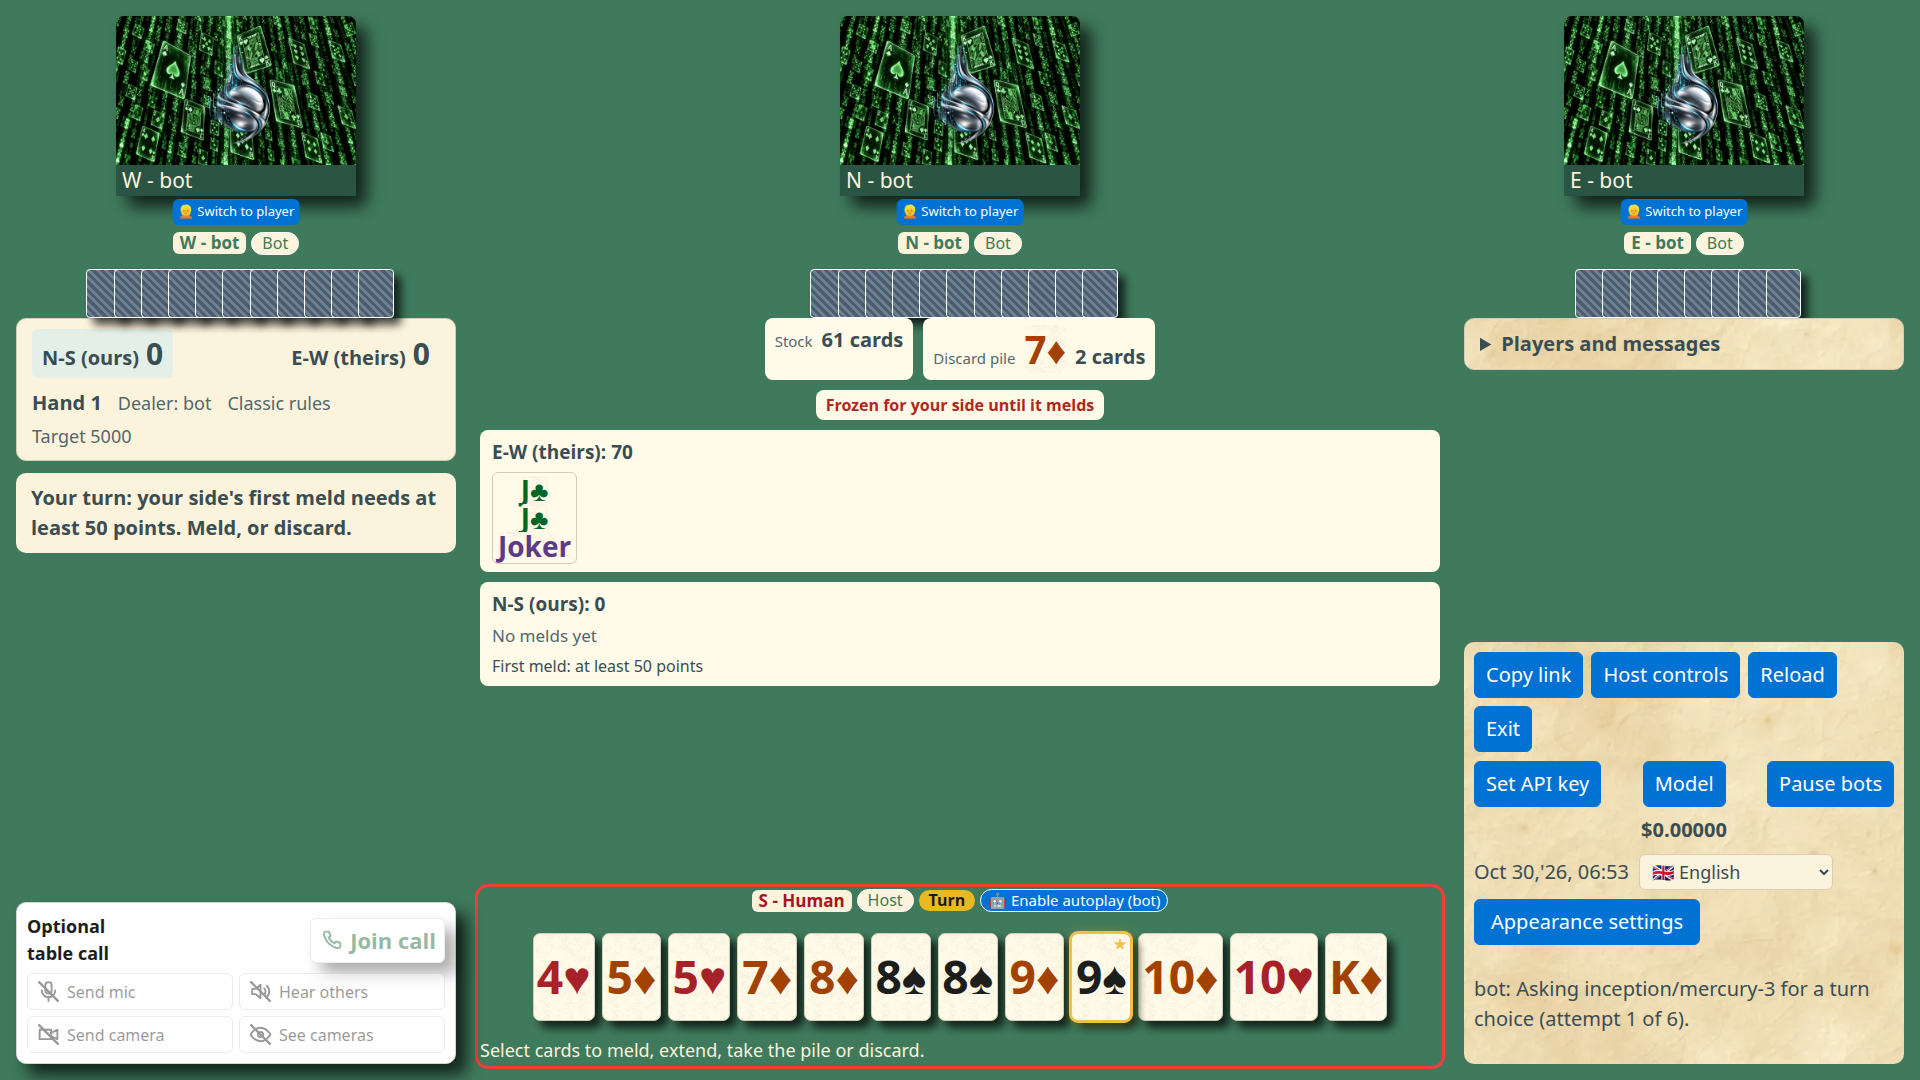
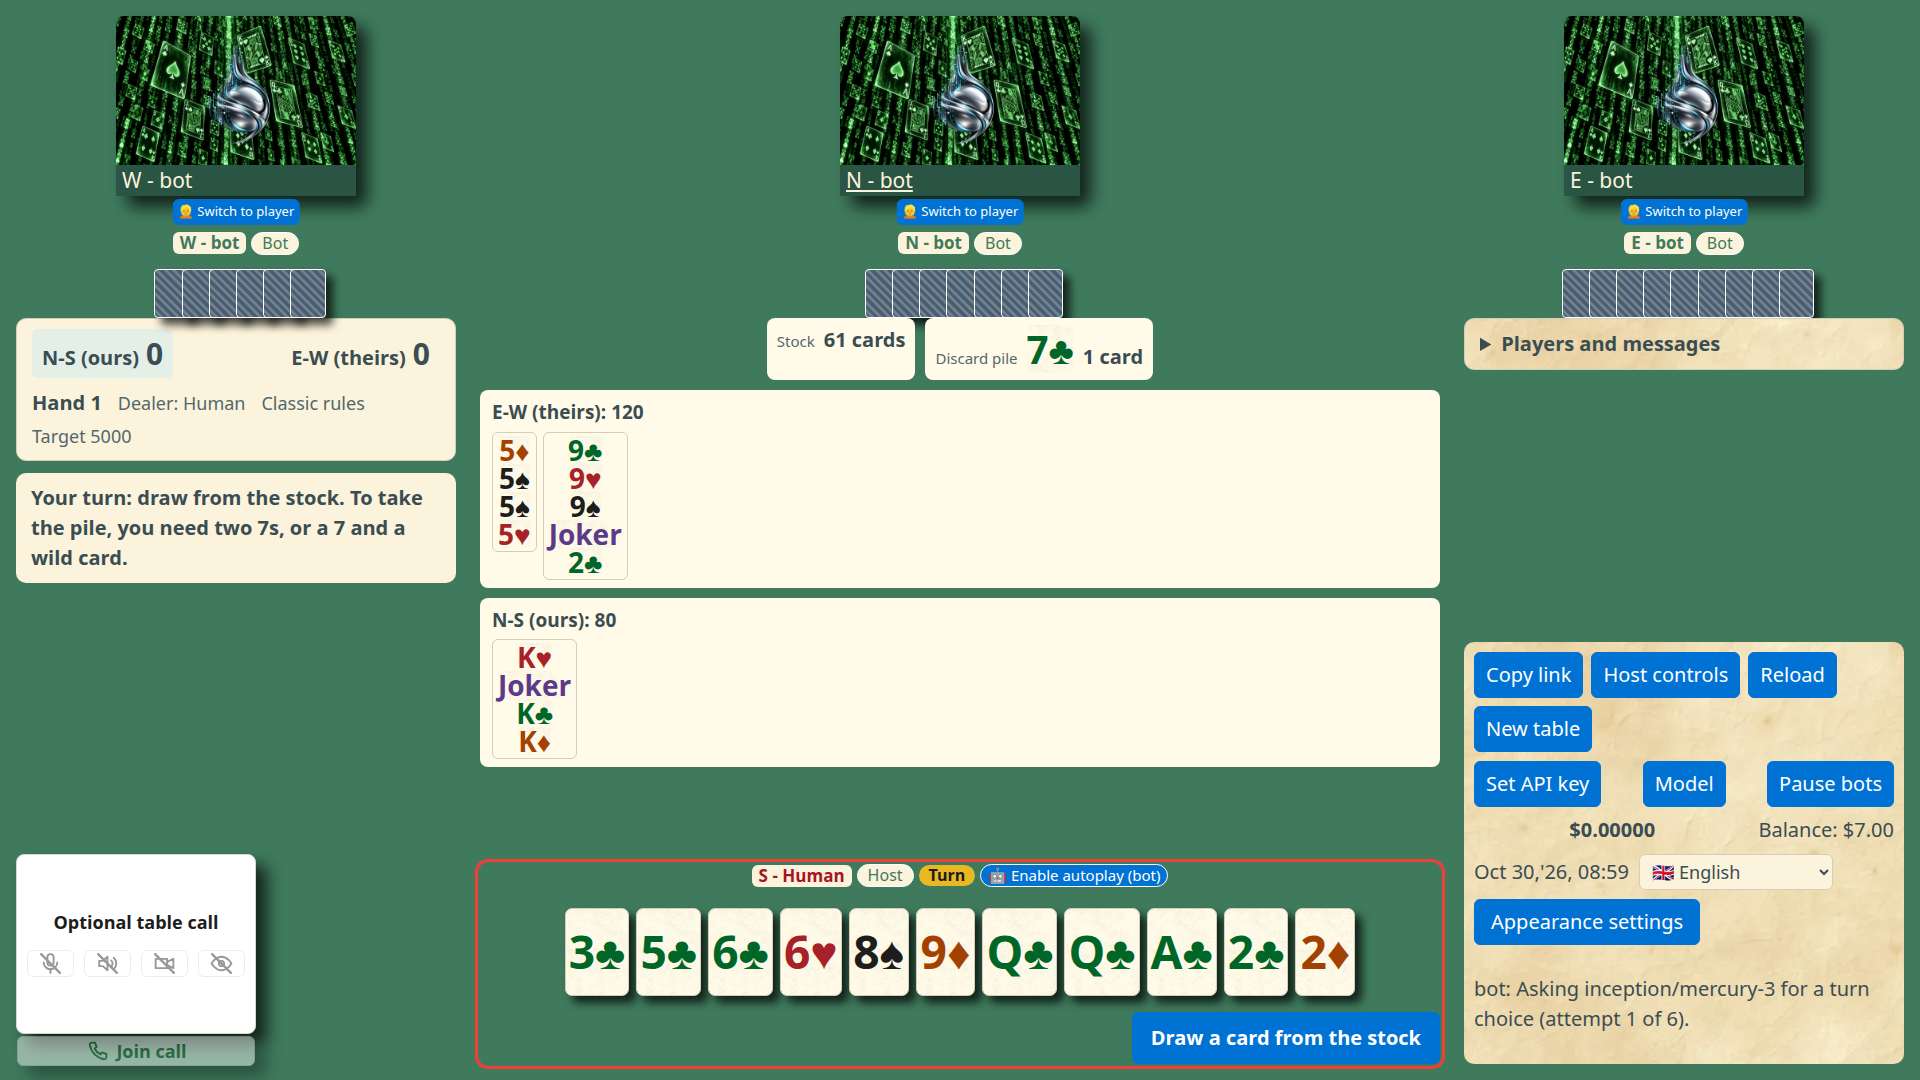
Align desktop call panel with player tiles

diff --git a/src/ui/style.css b/src/ui/style.css
@@ -802,42 +802,52 @@ main:has(> .table-screen) {
 	align-items: stretch;
 }
 
-/* The heading and Join call share the first row of the call panel. */
+/* The call panel matches the player tiles and uses its caption for media switches. */
 .call-panel {
-	display: grid;
-	grid-template-columns: minmax(0, 1fr) auto;
-	gap: 0.3rem;
+	--tile-caption-h: 1.575rem;
+	position: relative;
+	box-sizing: border-box;
+	display: flex;
+	flex-direction: column;
+	justify-content: center;
 	align-items: center;
-	padding: 0.5rem;
+	gap: 0.6rem;
+	width: 12rem;
+	height: 9rem;
+	margin-bottom: 1.5rem;
 	border: 1px solid var(--line);
-	border-radius: 0.5rem;
+	border-radius: 0.4rem;
 	background: var(--panel);
 }
 
+.call-panel[data-in-call="true"] { border: 0; background: var(--tile-bg); }
 .call-panel h4 {
 	margin: 0;
 	font-size: 0.9rem;
+	max-width: 100%;
+	text-align: center;
 }
 
 .call-self {
-	grid-column: 1 / -1;
-	position: relative;
+	position: absolute;
+	inset: 0;
 	display: grid;
 	place-items: center;
 	overflow: hidden;
-	width: 100%;
-	aspect-ratio: 16 / 9;
 	border-radius: 0.4rem;
-	background: #171717;
-	color: white;
+	color: var(--felt-fg);
 }
 
 .call-self[hidden], .call-self [hidden], .call-mirror[hidden] { display: none; }
-.call-self video { width: 100%; height: 100%; object-fit: cover; transform: scaleX(-1); }
-.call-self-text { font-weight: 700; letter-spacing: 0.08em; }
-.call-self-off { display: flex; gap: 1rem; }
+.call-self video { position: absolute; inset: 0; width: 100%; height: 100%; object-fit: cover; transform: scaleX(-1); }
+.call-self-text { margin-bottom: var(--tile-caption-h); font-weight: 700; letter-spacing: 0.08em; }
+.call-self-off { display: flex; gap: 1rem; margin-bottom: var(--tile-caption-h); opacity: 0.7; }
 .call-self-off .icon { width: 2.5rem; height: 2.5rem; }
-.call-mirror { grid-column: 1 / -1; justify-self: end; display: inline-flex; align-items: center; gap: 0.3rem; }
+.call-mirror { display: inline-flex; align-items: center; gap: 0.3rem; }
+.call-decoration { position: absolute; top: calc(100% + 0.15rem); left: 0; z-index: 2; display: flex; gap: 0.3rem; width: 100%; height: 1.5rem; }
+.call-decoration button { justify-content: center; min-height: 0; padding: 0 0.4rem; }
+.call-decoration .call-join { flex: 1; font-size: 0.9rem; }
+.call-decoration .call-join[data-in-call="true"] { flex-direction: row-reverse; }
 
 .call-invite {
 	box-sizing: border-box;
@@ -940,12 +950,18 @@ main:has(> .table-screen) {
 	font-size: 0.8rem;
 }
 
-.call-switches {
-	display: grid;
-	grid-column: 1 / -1;
-	grid-template-columns: 1fr 1fr;
+.call-switches.tile-caption {
+	z-index: 1;
+	display: flex;
+	align-items: center;
+	justify-content: space-evenly;
+	height: var(--tile-caption-h);
 	gap: 0.3rem;
+	overflow: visible;
+	border-radius: 0 0 0.4rem 0.4rem;
 }
+.call-panel[data-in-call="false"] .call-switches { position: static; box-sizing: border-box; width: 100%; background: none; }
+.call-switches .call-toggle { height: calc(100% - 0.2rem); padding: 0 0.5rem; }
 
 .call-toggle,
 .call-join,
@@ -993,9 +1009,13 @@ button.call-join[data-in-call="true"] {
 }
 
 .call-retries {
+	position: absolute;
+	top: 0.3rem;
+	right: 0.3rem;
+	left: 0.3rem;
+	z-index: 1;
 	display: flex;
 	flex-wrap: wrap;
-	grid-column: 1 / -1;
 	gap: 0.3rem;
 }
 

diff --git a/tests/e2e/call-self-view.spec.ts b/tests/e2e/call-self-view.spec.ts
@@ -12,6 +12,40 @@ import { createTableLink, pick } from "./pages";
 import { buildTrackerUrls, Player } from "./player";
 import { RelayHub } from "./relay-hub";
 
+test("the desktop call controls fit their tile in every language", async ({
+	page,
+}) => {
+	await page.goto("/");
+	await createTableLink(page);
+	for (const locale of ["en", "de", "hu", "no", "es", "pt", "fr", "it", "nl"]) {
+		await page.evaluate(
+			(value) => localStorage.setItem("dvolgyes-open_canasta.locale", value),
+			locale,
+		);
+		await page.reload();
+		const panel = page.getByTestId("call-panel");
+		await expect(panel).toBeVisible();
+		const bounds = await panel.evaluate((node) => {
+			const panelBox = node.getBoundingClientRect();
+			const children = [
+				node.querySelector("h4"),
+				...node.querySelectorAll(".call-switches button"),
+			];
+			return children.every((child) => {
+				if (!child) return false;
+				const box = child.getBoundingClientRect();
+				return (
+					box.left >= panelBox.left - 1 &&
+					box.right <= panelBox.right + 1 &&
+					box.top >= panelBox.top - 1 &&
+					box.bottom <= panelBox.bottom + 1
+				);
+			});
+		});
+		expect(bounds, `call controls in ${locale}`).toBe(true);
+	}
+});
+
 test("the local preview can be hidden without stopping the sent camera", async ({
 	browser,
 	baseURL,
@@ -33,12 +67,28 @@ test("the local preview can be hidden without stopping the sent camera", async (
 		const link = await createTableLink(page);
 		const other = await guest.page(link);
 		await pick(other, "N");
+		const panel = page.getByTestId("call-panel");
+		const tile = page.getByTestId("tile-N");
+		const panelBox = await panel.boundingBox();
+		const tileBox = await tile.boundingBox();
+		expect(panelBox).not.toBeNull();
+		expect(tileBox).not.toBeNull();
+		expect(panelBox?.width).toBeCloseTo(tileBox?.width ?? 0, 0);
+		expect(panelBox?.height).toBeCloseTo(tileBox?.height ?? 0, 0);
 		expect((await counts(page)).captures).toBe(0);
 		await joinWith(other, "See cameras; send voice");
 		await joinWith(page, "Audio + video both ways");
 		const video = page.getByTestId("video-self");
 		const mirror = page.getByRole("button", { name: "Mirror my camera" });
 		await expect(video).toBeVisible();
+		const previewBox = await page.getByTestId("call-self").boundingBox();
+		const switchesBox = await panel.locator(".call-switches").boundingBox();
+		const leaveBox = await leaveButton(page).boundingBox();
+		expect(previewBox?.height).toBeCloseTo(panelBox?.height ?? 0, 0);
+		expect(switchesBox?.y ?? 0).toBeGreaterThan(previewBox?.y ?? 0);
+		expect(leaveBox?.y ?? 0).toBeGreaterThanOrEqual(
+			(panelBox?.y ?? 0) + (panelBox?.height ?? 0),
+		);
 		await expect
 			.poll(() =>
 				video.evaluate(

diff --git a/tests/e2e/call-audio.spec.ts b/tests/e2e/call-audio.spec.ts
@@ -364,20 +364,27 @@ test("6: after East's game links and relays are cut for longer than 10 s, the ca
 	await expectAudioArrives(tab.E);
 });
 
-test("7: outside the call, the keyboard reaches the switches from Join and changes them", async () => {
+test("7: outside the call, the keyboard changes switches and reaches Join", async () => {
 	const captures = (await counts(tab.N)).captures;
 	const join = joinButton(tab.N);
 	const mic = toggle(tab.N, "Send mic audio");
-	await join.focus();
-	// The switches follow Join in the panel, so the next Tab stop is the first switch.
-	await tab.N.keyboard.press("Tab");
-	await expect(mic).toBeFocused();
+	await mic.focus();
 	const before = await mic.getAttribute("aria-pressed");
 	const flipped = before === "true" ? "false" : "true";
 	await tab.N.keyboard.press("Space");
 	await expect(mic).toHaveAttribute("aria-pressed", flipped);
 	await tab.N.keyboard.press("Space");
 	await expect(mic).toHaveAttribute("aria-pressed", before ?? "false");
+	for (const name of [
+		"Hear others: receive audio",
+		"Send camera video",
+		"See cameras: receive video",
+	]) {
+		await tab.N.keyboard.press("Tab");
+		await expect(toggle(tab.N, name)).toBeFocused();
+	}
+	await tab.N.keyboard.press("Tab");
+	await expect(join).toBeFocused();
 	await expect(leaveButton(tab.N)).toHaveCount(0);
 	// Outside the call, a switch only chooses what Join starts with; it starts nothing.
 	expect((await counts(tab.N)).captures).toBe(captures);

diff --git a/src/ui/call-panel.ts b/src/ui/call-panel.ts
@@ -177,6 +177,7 @@ export function callControls(
 		attrs: { role: "status", "data-testid": "call-note" },
 	});
 	const retries = el("div", { className: "call-retries" });
+	const heading = el("h4", {}, `${t("Optional")} ${t("table call")}`);
 	const selfVideo = el("video", {
 		attrs: { "aria-hidden": "true", "data-testid": "video-self" },
 	});
@@ -227,17 +228,16 @@ export function callControls(
 			className: "call-panel",
 			attrs: { "aria-label": t("Table call"), "data-testid": "call-panel" },
 		},
-		el("h4", {}, t("Optional"), el("br", {}), t("table call")),
-		joinButton(true),
+		heading,
 		self,
-		mirrorButton,
+		retries,
 		el(
 			"div",
-			{ className: "call-switches" },
-			...TOGGLES.map((toggle) => toggleButton(toggle, true)),
+			{ className: "call-switches tile-caption" },
+			...TOGGLES.map((toggle) => toggleButton(toggle, false)),
 		),
+		el("div", { className: "call-decoration" }, joinButton(true), mirrorButton),
 		note,
-		retries,
 	);
 
 	const alert = el("p", {
@@ -419,6 +419,8 @@ export function callControls(
 		last = view;
 		invitation = nextInvite(invitation, hostInCall, view.inCall);
 		panel.dataset.status = next.available ? next.view.status : "unavailable";
+		panel.dataset.inCall = String(view.inCall);
+		heading.hidden = view.inCall;
 		for (const item of toggles) {
 			const state = view.switches.find(
 				(s) => s.way === item.toggle.way && s.medium === item.toggle.medium,

diff --git a/docs/opentrick-migration.md b/docs/opentrick-migration.md
@@ -287,6 +287,8 @@ Record features already present and their evidence before closing their item.
 - [x] Show compact call, share, reload and new table icons on phones, with accessible names and the existing desktop call panel on larger layouts.
   The game actions appear once and fit on one row at 320 pixels in all nine languages.
   Phone Reload restores the seat and saved messages after draining queued work.
+- [x] Match the desktop call panel to the player tile size, with media switches in the caption and call actions below it.
+  The local preview remains independent of the video sent to other players, and the controls fit in all nine languages.
 - [x] Place a phone hand result in the board between the other players and the viewer's hand.
   Browser geometry checks cover 320, 360 and 390 pixel widths, score-panel overflow and sideways behavior.
 - [x] Add the reference color palettes and persisted theme and light/dark selection, with page, card and button contrast checks.

diff --git a/README.md b/README.md
@@ -79,7 +79,7 @@ On a narrow phone, the title's font becomes smaller so that the title stays on o
 When even the smallest font does not fit, the title ends with "…".
 Cards in hand and the going-out bonus count only when the hand ends.
 
-![A Canasta hand with three bot seats, a highlighted drawn card, scores, melds, and host controls.](docs/images/gameplay-hand.png)
+![A Canasta hand with three bot seats, scores, melds, and host controls.](docs/images/gameplay-hand.png)
 
 The main rules, in short:
 
